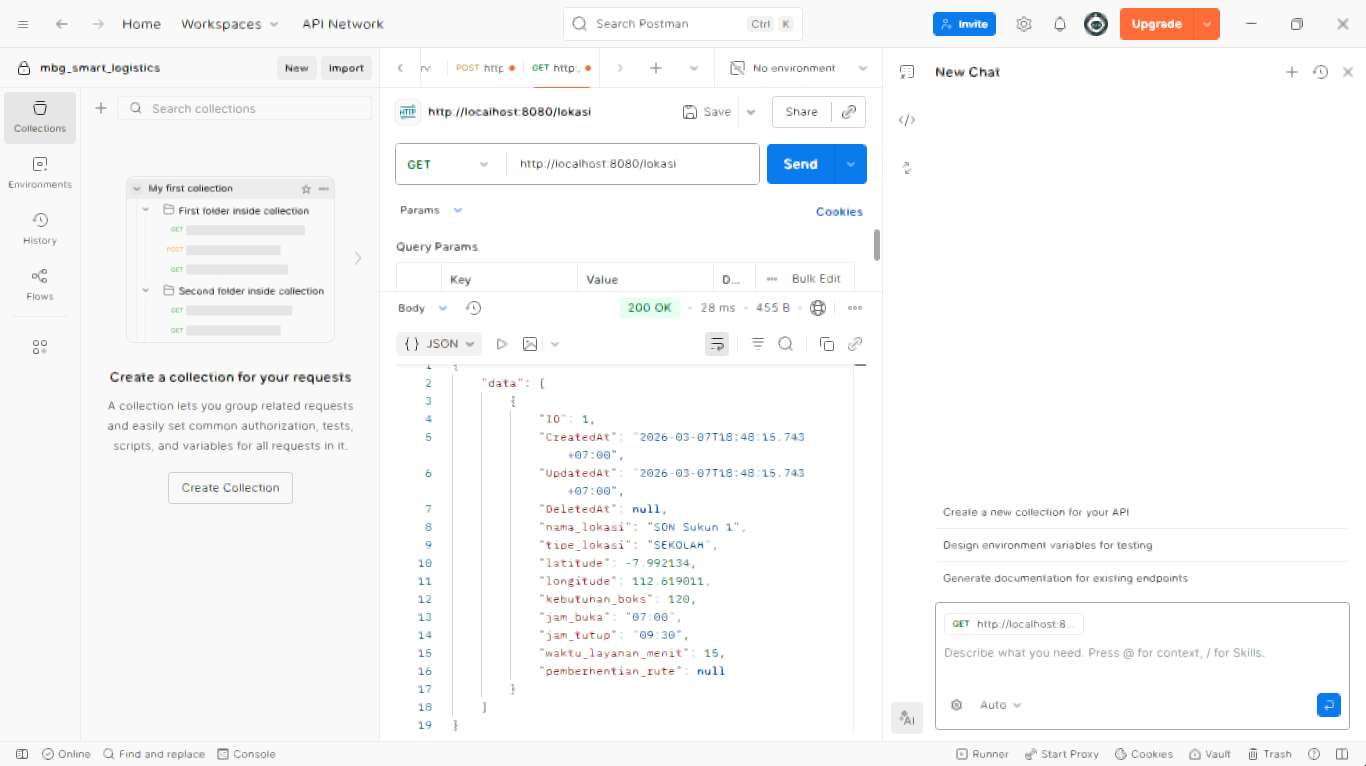
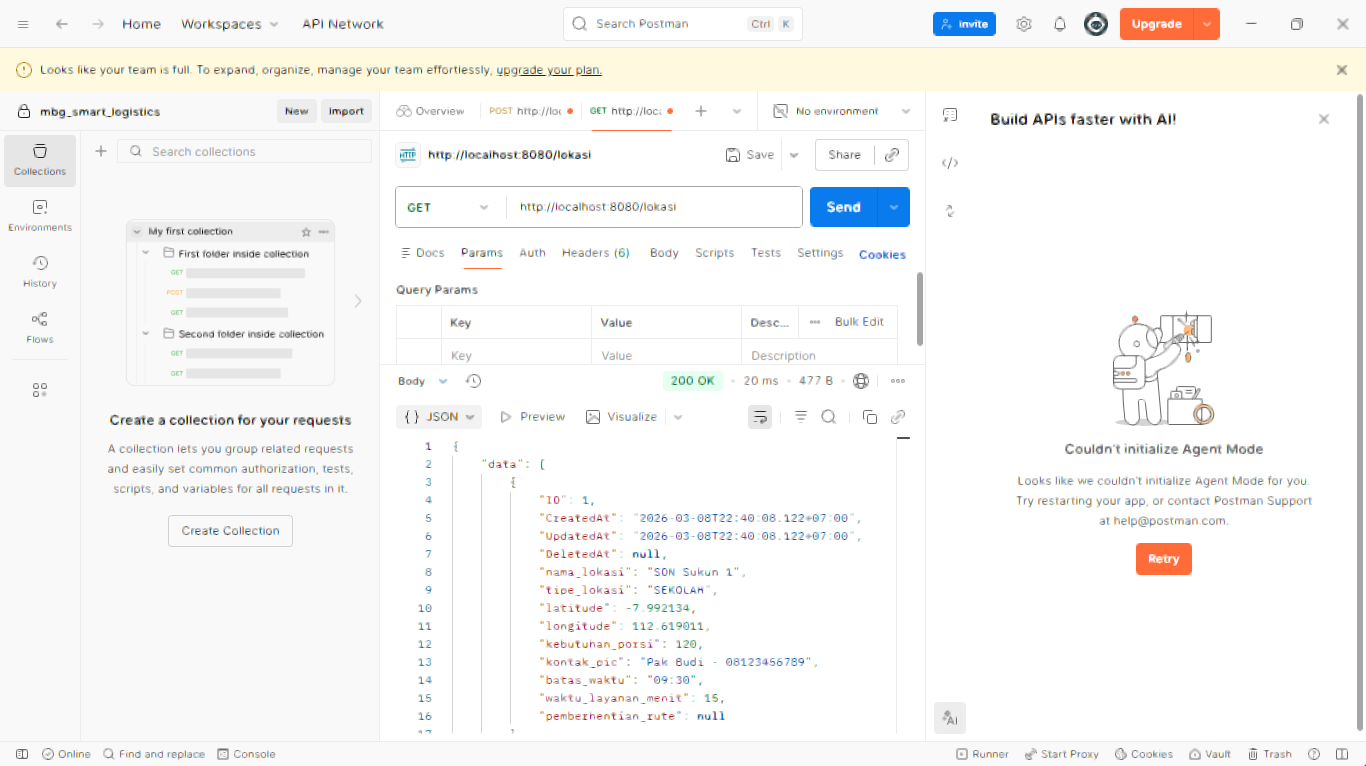
Update Database dan penyesuaian main.go untuk syncronize 3 matkul

diff --git a/main.go b/main.go
@@ -24,12 +24,12 @@ type Pengguna struct {
 type Lokasi struct {
 	gorm.Model
 	NamaLokasi        string  `gorm:"type:varchar(150);not null" json:"nama_lokasi"`
-	TipeLokasi        string  `gorm:"type:enum('DAPUR', 'SEKOLAH', 'ESTAFET');not null" json:"tipe_lokasi"`
+	TipeLokasi        string  `gorm:"type:enum('SPPG', 'SEKOLAH', 'ESTAFET');not null" json:"tipe_lokasi"`
 	Latitude          float64 `gorm:"not null" json:"latitude"`
 	Longitude         float64 `gorm:"not null" json:"longitude"`
-	KebutuhanBoks     *int    `gorm:"default:0" json:"kebutuhan_boks"`
-	JamBuka           string  `gorm:"type:varchar(10);not null" json:"jam_buka"`
-	JamTutup          string  `gorm:"type:varchar(10);not null" json:"jam_tutup"`
+	KebutuhanPorsi    *int    `gorm:"default:0" json:"kebutuhan_porsi"`
+	KontakPic         string  `gorm:"type:varchar(100)" json:"kontak_pic"`
+	BatasWaktu        string  `gorm:"type:varchar(10)" json:"batas_waktu"`
 	WaktuLayananMenit *int    `gorm:"default:0" json:"waktu_layanan_menit"`
 
 	PemberhentianRute []PemberhentianRute `gorm:"foreignKey:LokasiID;constraint:OnUpdate:CASCADE,OnDelete:CASCADE;" json:"pemberhentian_rute"`
@@ -37,23 +37,27 @@ type Lokasi struct {
 
 type Rute struct {
 	gorm.Model
-	KurirID      uint      `gorm:"not null" json:"kurir_id"`
-	Tanggal      time.Time `gorm:"type:date;not null" json:"tanggal"`
-	TotalJarakKm float64   `gorm:"default:0" json:"total_jarak_km"`
-	StatusRute   string    `gorm:"type:enum('TUNDA', 'PROSES', 'SELESAI');default:'TUNDA'" json:"status_rute"`
+	KurirID            uint      `gorm:"not null" json:"kurir_id"`
+	Tanggal            time.Time `gorm:"type:date;not null" json:"tanggal"`
+	TotalJarakKm       float64   `gorm:"default:0" json:"total_jarak_km"`
+	WaktuMulaiAktual   string    `gorm:"type:time" json:"waktu_mulai_aktual"`
+	WaktuSelesaiAktual string    `gorm:"type:time" json:"waktu_selesai_aktual"`
+	StatusRute         string    `gorm:"type:enum('TUNDA', 'PROSES', 'SELESAI');default:'TUNDA'" json:"status_rute"`
 
 	PemberhentianRute []PemberhentianRute `gorm:"foreignKey:RuteID;constraint:OnUpdate:CASCADE,OnDelete:CASCADE;" json:"pemberhentian_rute"`
 }
 
 type PemberhentianRute struct {
 	gorm.Model
-	RuteID         uint      `gorm:"not null" json:"rute_id"`
-	LokasiID       uint      `gorm:"not null" json:"lokasi_id"`
-	UrutanBerhenti int       `gorm:"not null" json:"urutan_berhenti"`
-	EstimasiTiba   time.Time `gorm:"not null" json:"estimasi_tiba"`
-	BoksTurun      *int      `gorm:"default:0" json:"boks_turun"`
-	BoksNaik       *int      `gorm:"default:0" json:"boks_naik"`
-	ApakahEstafet  bool      `gorm:"default:false" json:"apakah_estafet"`
+	RuteID           uint       `gorm:"not null" json:"rute_id"`
+	LokasiID         uint       `gorm:"not null" json:"lokasi_id"`
+	UrutanBerhenti   int        `gorm:"not null" json:"urutan_berhenti"`
+	WaktuTibaAktual  *time.Time `gorm:"type:datetime" json:"waktu_tiba_aktual"`
+	PorsiTurun       *int       `gorm:"default:0" json:"porsi_turun"`
+	PorsiNaik        *int       `gorm:"default:0" json:"porsi_naik"`
+	BuktiFoto        string     `gorm:"type:varchar(255)" json:"bukti_foto"`
+	Catatan          string     `gorm:"type:text" json:"catatan"`
+	StatusPerhentian string     `gorm:"type:enum('MENUNGGU', 'TIBA', 'SELESAI', 'GAGAL');default:'MENUNGGU'" json:"status_perhentian"`
 }
 
 var DB *gorm.DB
